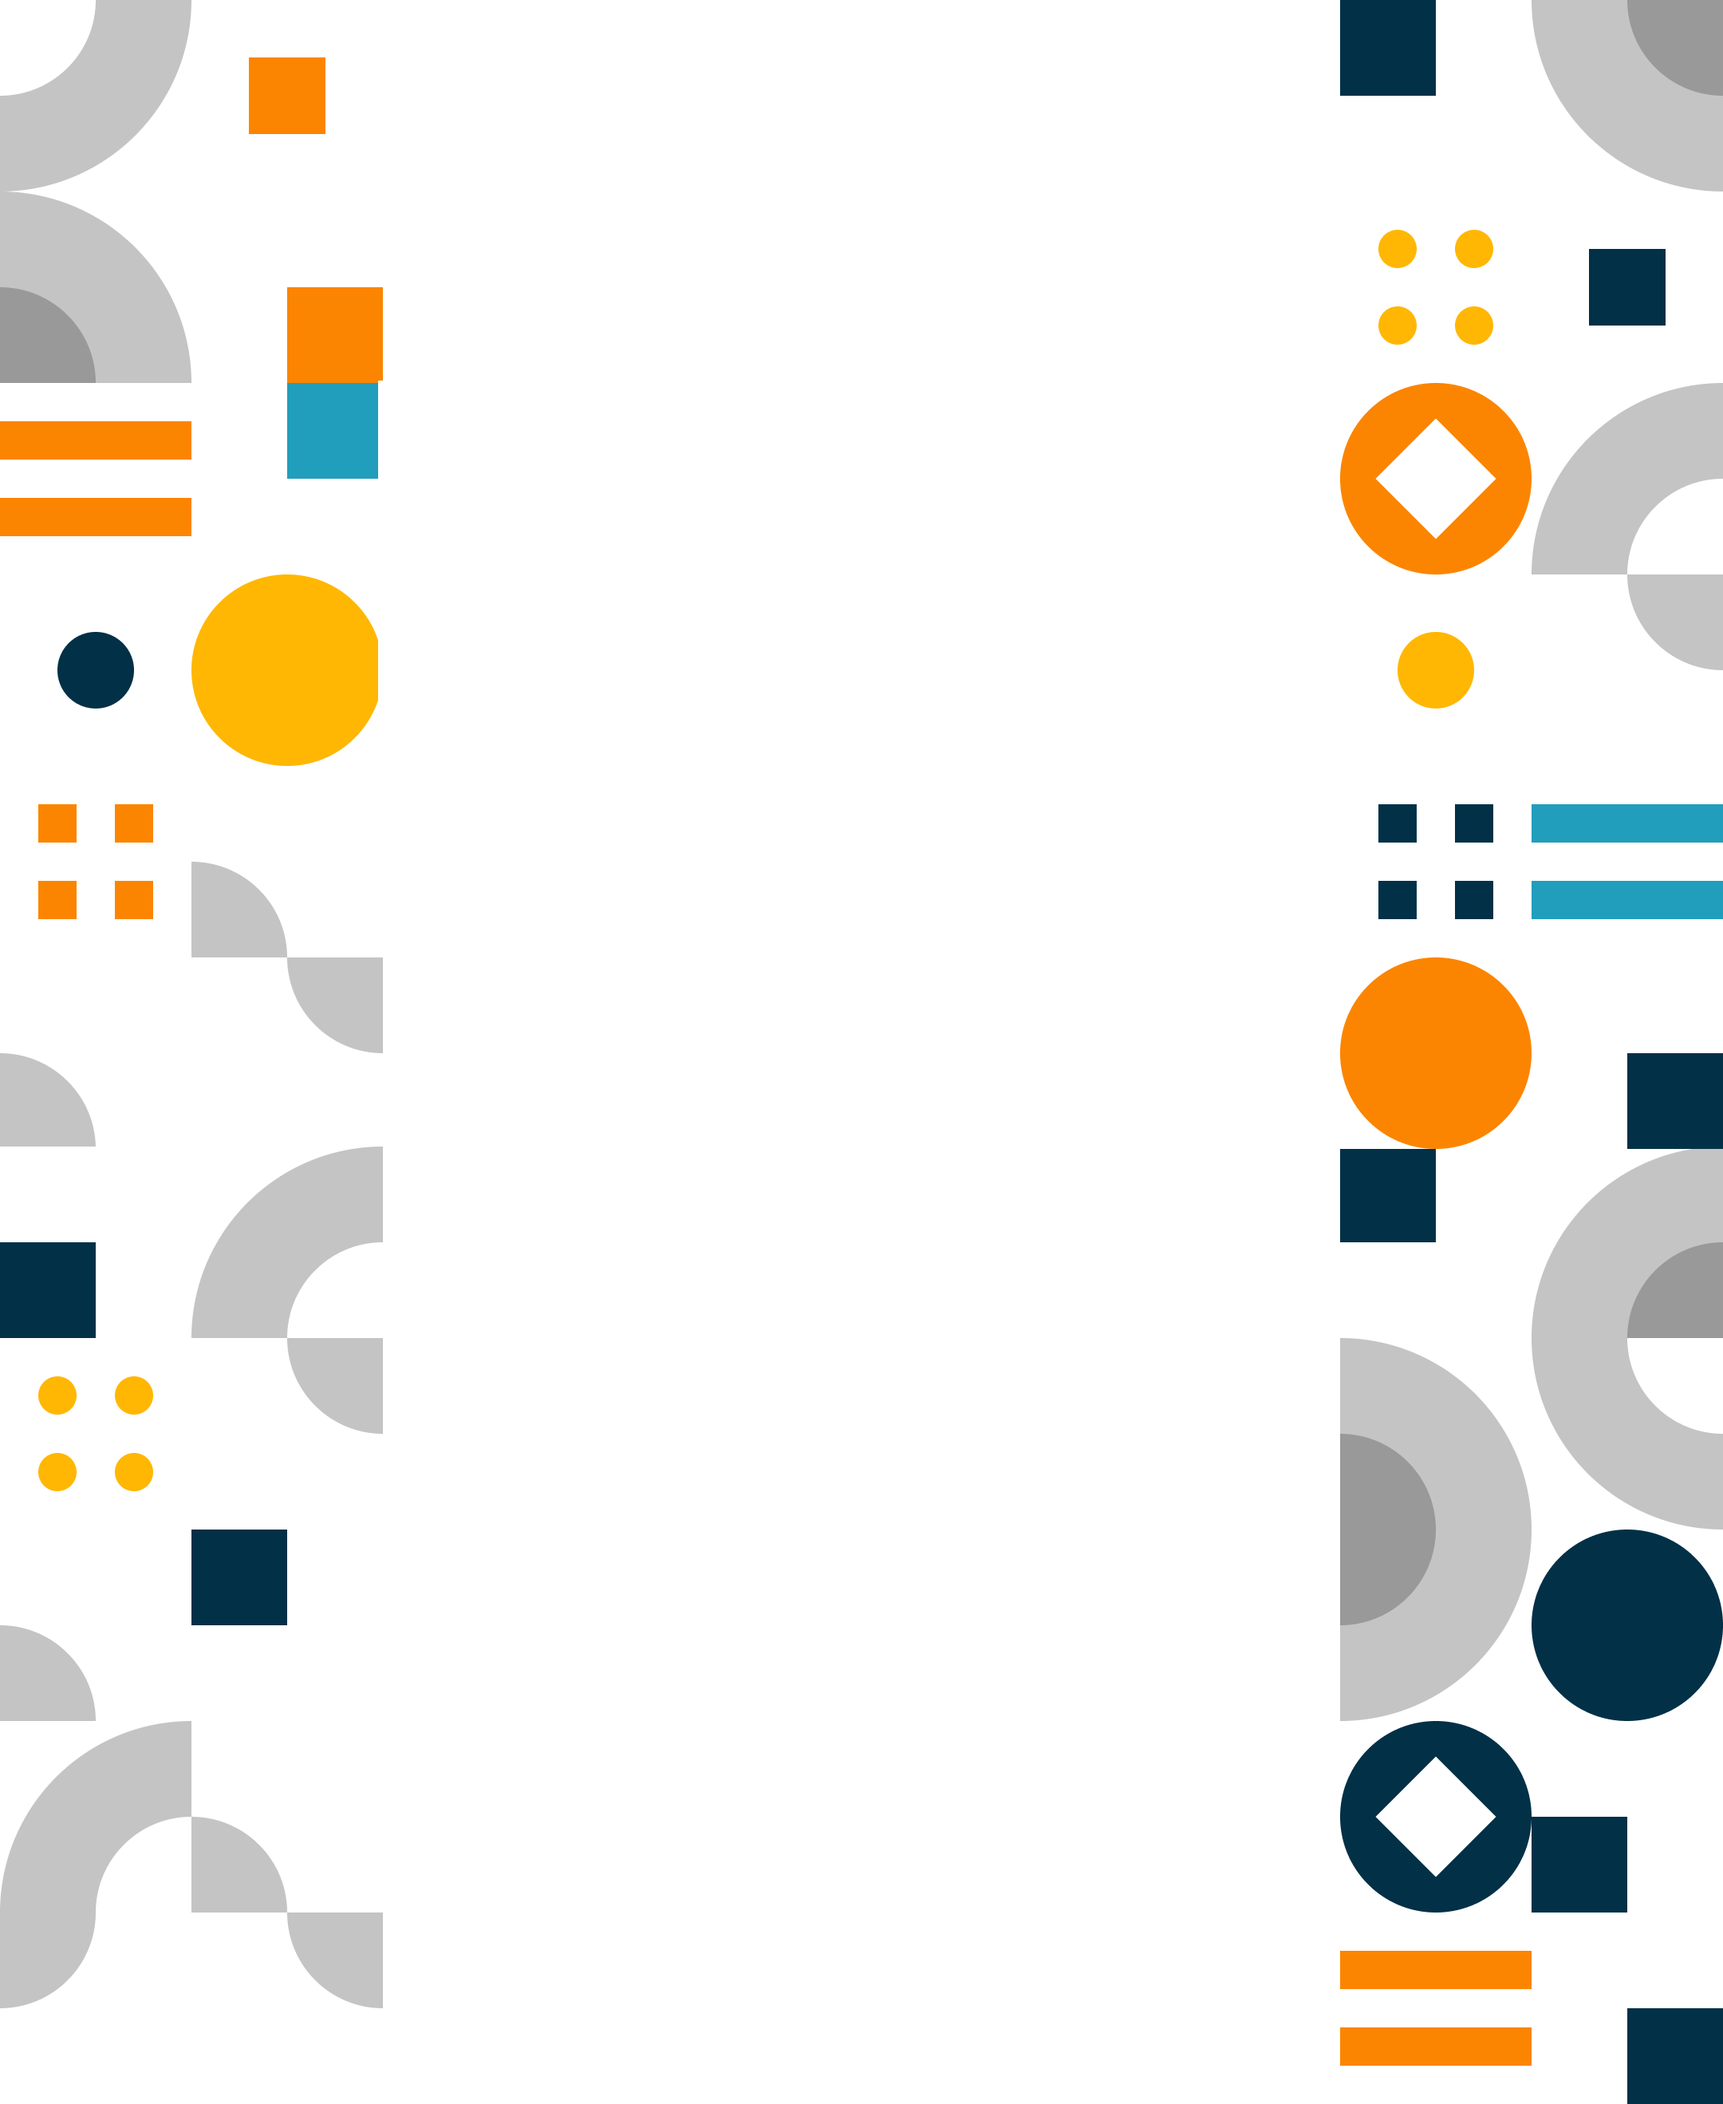
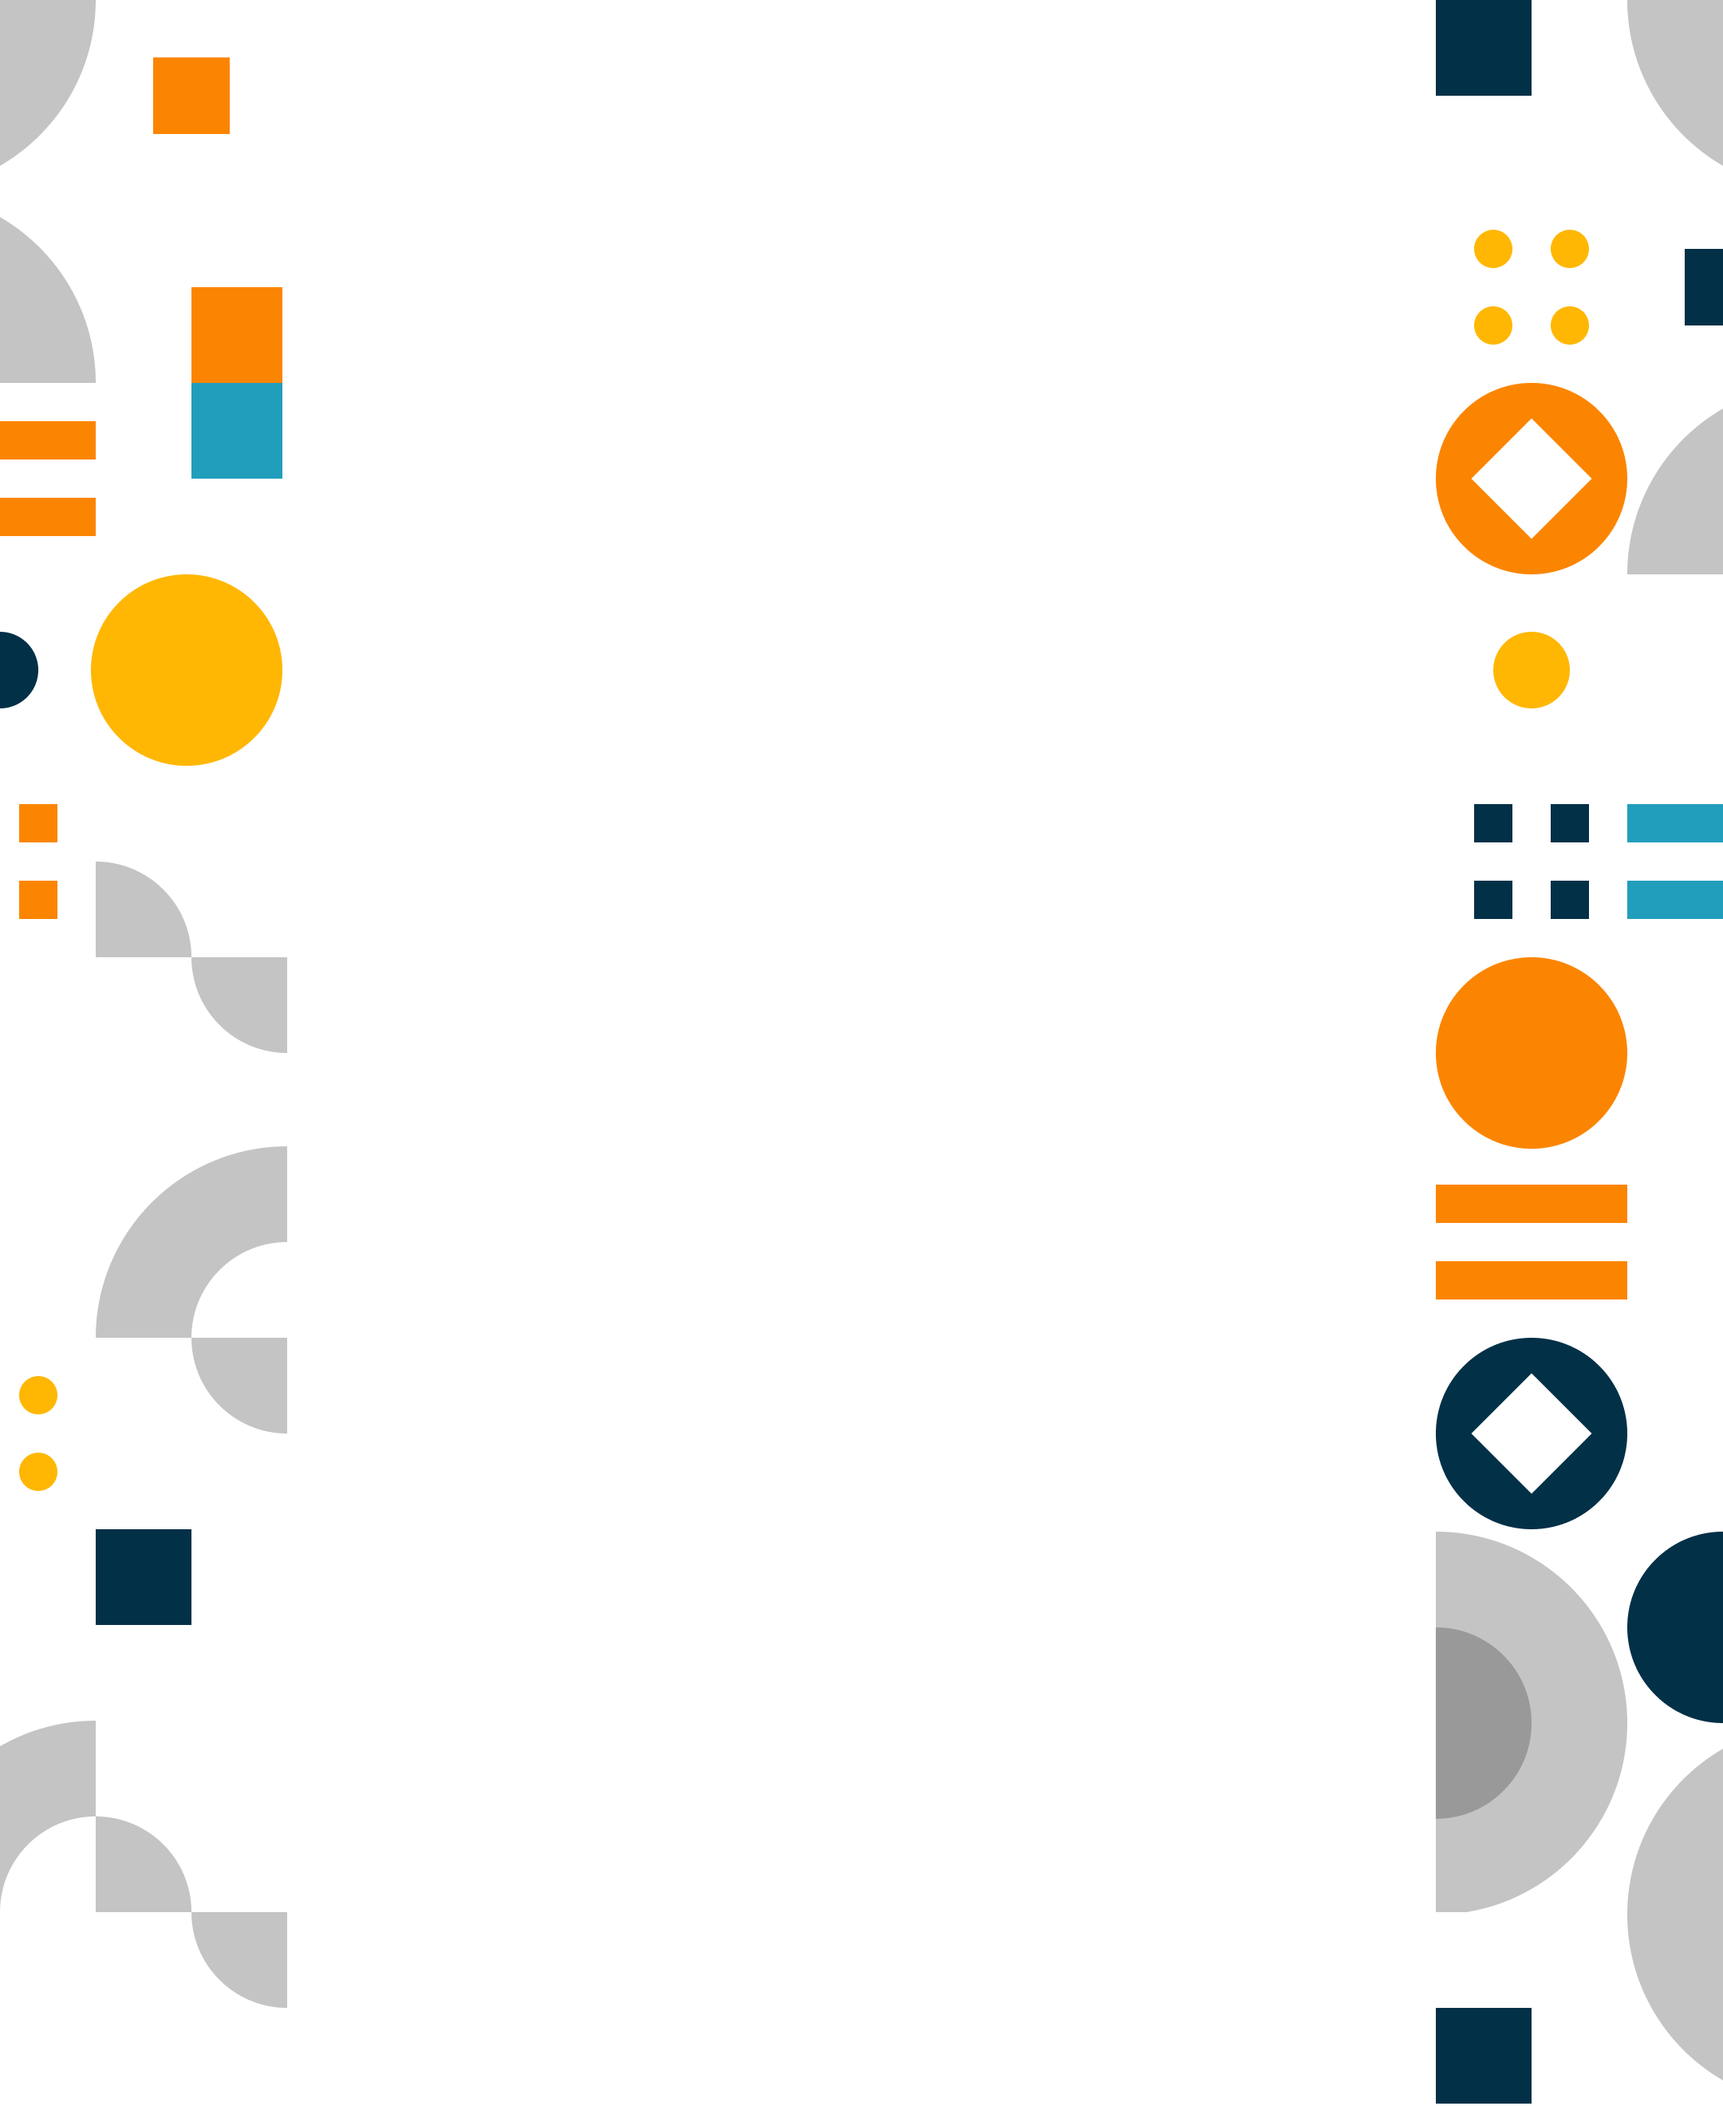
start

diff --git a/gatsby-config.js b/gatsby-config.js
@@ -1,9 +1,9 @@
 module.exports = {
   siteMetadata: {
-    title: `Samarth's Blog`,
+    title: `Irreverent Expectations`,
     author: {
       name: `Samarth Goel`,
-      summary: `, a student at UC Berkeley studying Computer Science and Business.`,
+      summary: `, a builder, problem-solver, and amateur gymnast.`,
     },
     description: `Samarth's Blog/`,
     siteUrl: `https://blog.samarthgoel.com/`,

diff --git a/src/style.css b/src/style.css
@@ -82,7 +82,7 @@ body {
   font-size: var(--fontSize-1);
   color: var(--color-text);
   background-image: url("./images/bg.png");
-  background-size: cover;
+  background-size: 100% auto;
 }
 
 footer {

diff --git a/content/blog/quant/index.md b/content/blog/quant/index.md
@@ -1,0 +1,97 @@
+---
+title: Quant Finance Resources
+date: "2022-03-25"
+description: Some resources for Quantitative Finance.
+---
+
+## List of Firms
+
+Bold = Popular firms for trading for undergraduates
+
+- 3Red Partners
+- **Akuna Capital**
+- Alameda
+- Allston Trading
+- Ansatz Capital
+- Aquatic Capital
+- ART Advisors
+- **Belvedere Trading**
+- Blackedge Capital
+- Bluefin Companies
+- Chicago Trading Company
+- **Citadel Securities**
+- Cognitive Capital
+- **Cubist Systems (Point72)**
+- Cutler Group
+- Da Vinci Derivatives
+- **DE Shaw**
+- Domeyard
+- **DRW**
+- DV Trading
+- Eagle Seven
+- Eclipse Trading
+- Edgehog
+- Edgestream Partners
+- Emergent Trading
+- Engineers Gate
+- Epoch Trading Group
+- Ergoteles
+- Final
+- **Five Rings Capital**
+- **Flow Trading**
+- G-Research
+- Gelber Group
+- Geneva Trading
+- Gingko LLC
+- Group One Trading
+- GTS
+- HAP
+- HAP Capital
+- Hard Eight Trading
+- HC Tech
+- HC Technologies
+- Headlands Technologies
+- **Hudson River Trading**
+- **IMC**
+- Istra
+- **Jane Street Capital**
+- **Jump Trading**
+- Liquid Capital Group
+- Mako Trading
+- Maven Securities
+- Millenium Advisors
+- Nine Mile Financial
+- Old Mission Capital
+- **Optiver**
+- PDT Partners
+- Peak6
+- Quadrature Capital
+- Quantlab
+- Qube Research & Technologies
+- Radix Trading
+- Renaissance Technologies
+- RSJ Securities
+- Seven Eight Capital
+- Sierra Pacific Securities
+- Spark Capital Management
+- **Susquehanna International Group (SIG)**
+- Teza Technologies
+- TGS
+- Tibra
+- Tower Research Capital
+- Tradebot Systems
+- TransMarket Group
+- Tsuru Capital
+- **Two Sigma**
+- Valkyrie Trading
+- Vatic Labs
+- Velar Technologies
+- Virtu Financial
+- VivCourt Trading
+- Volant Trading
+- Voleon
+- WH Trading
+- Wintermute
+- Wolverine Trading
+- XR Trading
+- XTX Markets

diff --git a/content/blog/crypto/index.md b/content/blog/crypto/index.md
@@ -1,0 +1,11 @@
+---
+title: Crypto Resources
+date: "2022-03-22"
+description: Some resources for Crypto Stuff.
+---
+
+## Impermenant Loss
+
+- https://pintail.medium.com/uniswap-a-good-deal-for-liquidity-providers-104c0b6816f2
+
+This article is good for understanding the basics of the math behind impermenant loss.

diff --git a/content/blog/lessons/index.md b/content/blog/lessons/index.md
@@ -1,9 +1,8 @@
 ---
 title: Some Lessons!
 date: "2022-01-18T13:23:37.121Z"
+description: "Some life lessons"
 ---
-
-# Some Lessons
 
 Here I'll keep track of important life lessons I've learnt.
 
